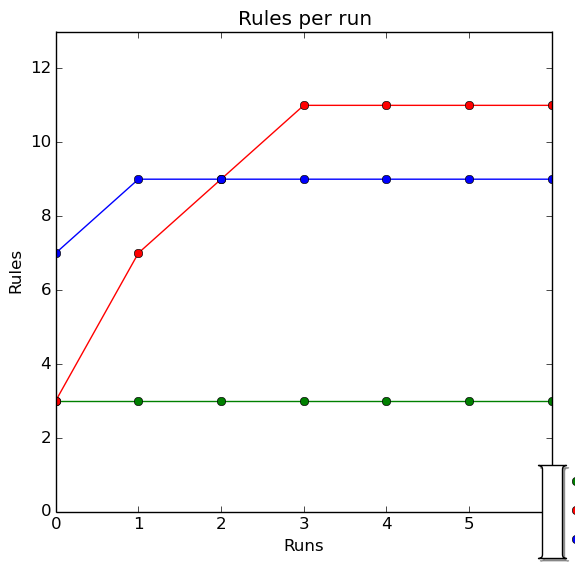
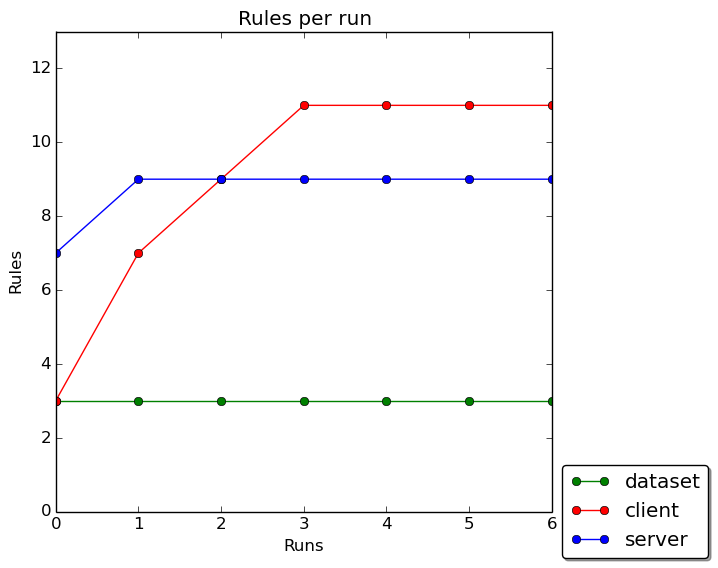
New attempt

diff --git a/Benchmarks/media-streaming_plot_testing/Parser/metrics/plot_rules_total.py b/Benchmarks/media-streaming_plot_testing/Parser/metrics/plot_rules_total.py
@@ -50,7 +50,7 @@ ax.plot(x_Axis, rules[2], label="server", color="blue", marker='o')
 box = ax.get_position()
 ax.set_position([box.x0, box.y0, box.width * 0.8, box.height])
 
-ax.legend(loc='center left', bbox_to_anchor=(1, 0), mode="expand", fancybox=True, shadow=True)
+ax.legend(loc='center left', bbox_to_anchor=(1, 0), fancybox=True, shadow=True)
 #ax.legend(loc=0)
 #ax.grid()
 ax.set_xlabel("Runs")
@@ -127,7 +127,7 @@ ax3.plot(enf_rules, part_2c, label="enforce mode", color="red", marker='o')
 box = ax.get_position()
 ax.set_position([box.x0, box.y0, box.width * 0.8, box.height])
 
-ax.legend(loc='lower right', bbox_to_anchor=(1, 0), mode="expand", fancybox=True, shadow=True, ncol=2)
+ax.legend(loc='lower right', bbox_to_anchor=(1, 0), fancybox=True, shadow=True, ncol=2)
 
 
 #ax1.legend(loc=1,prop={'size': 12})
